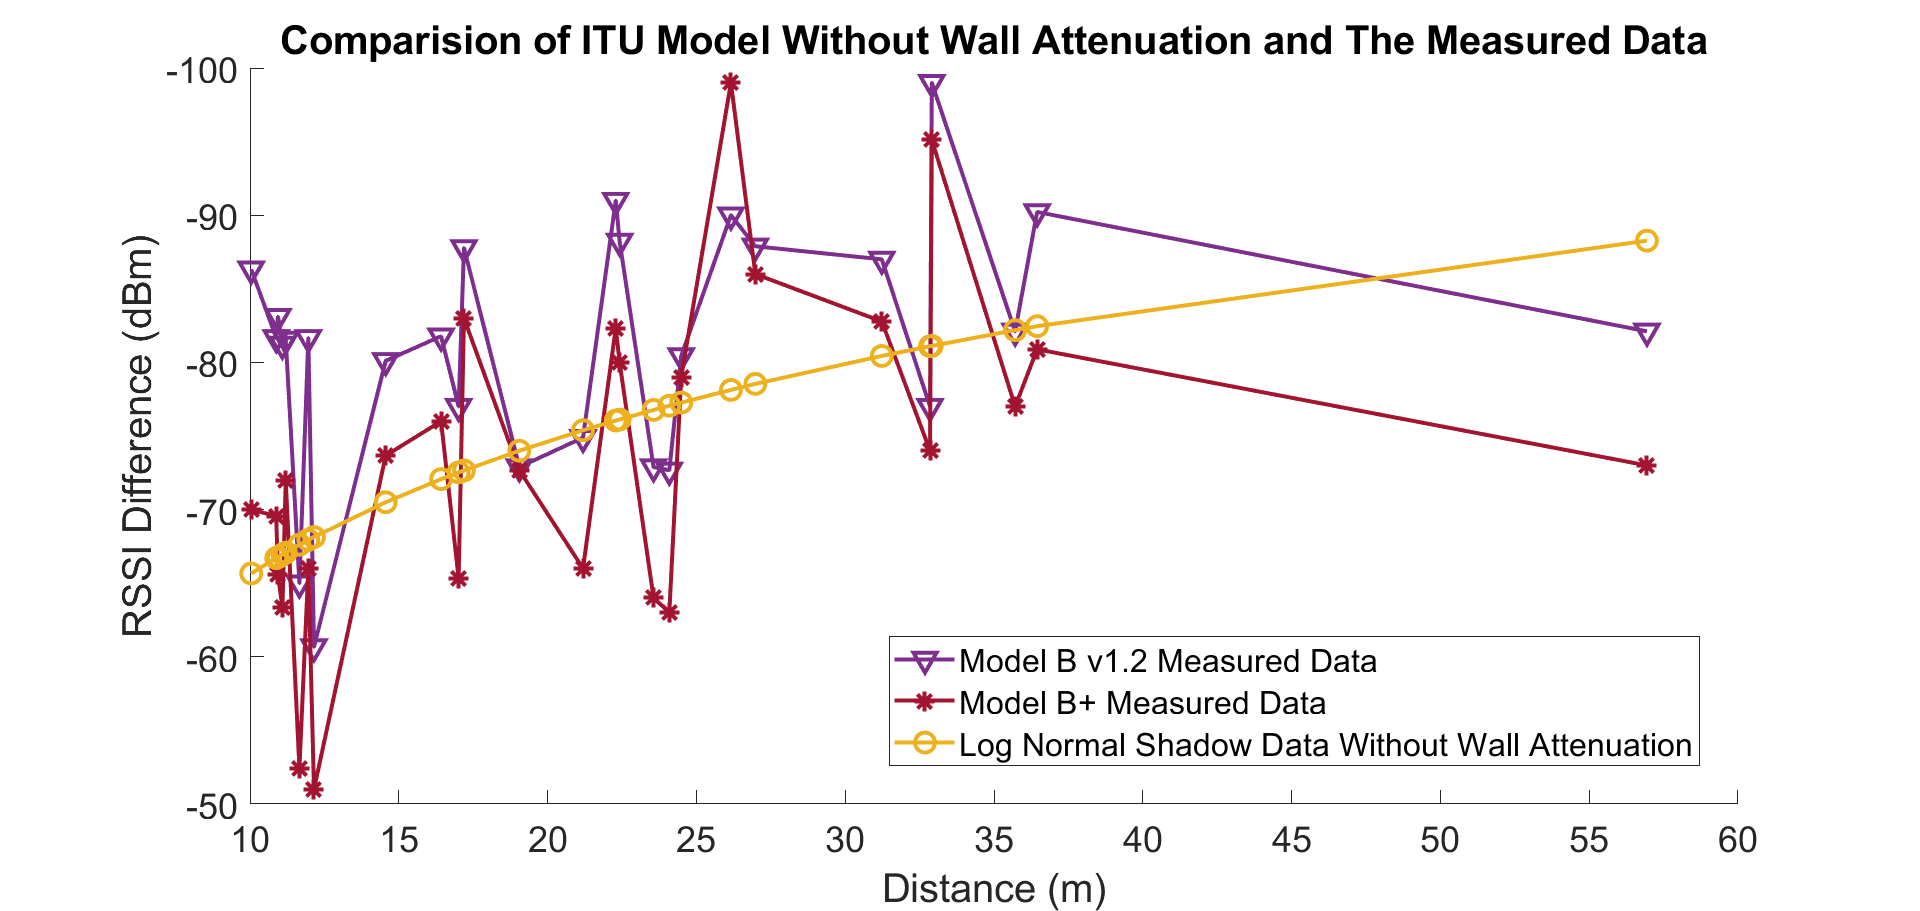
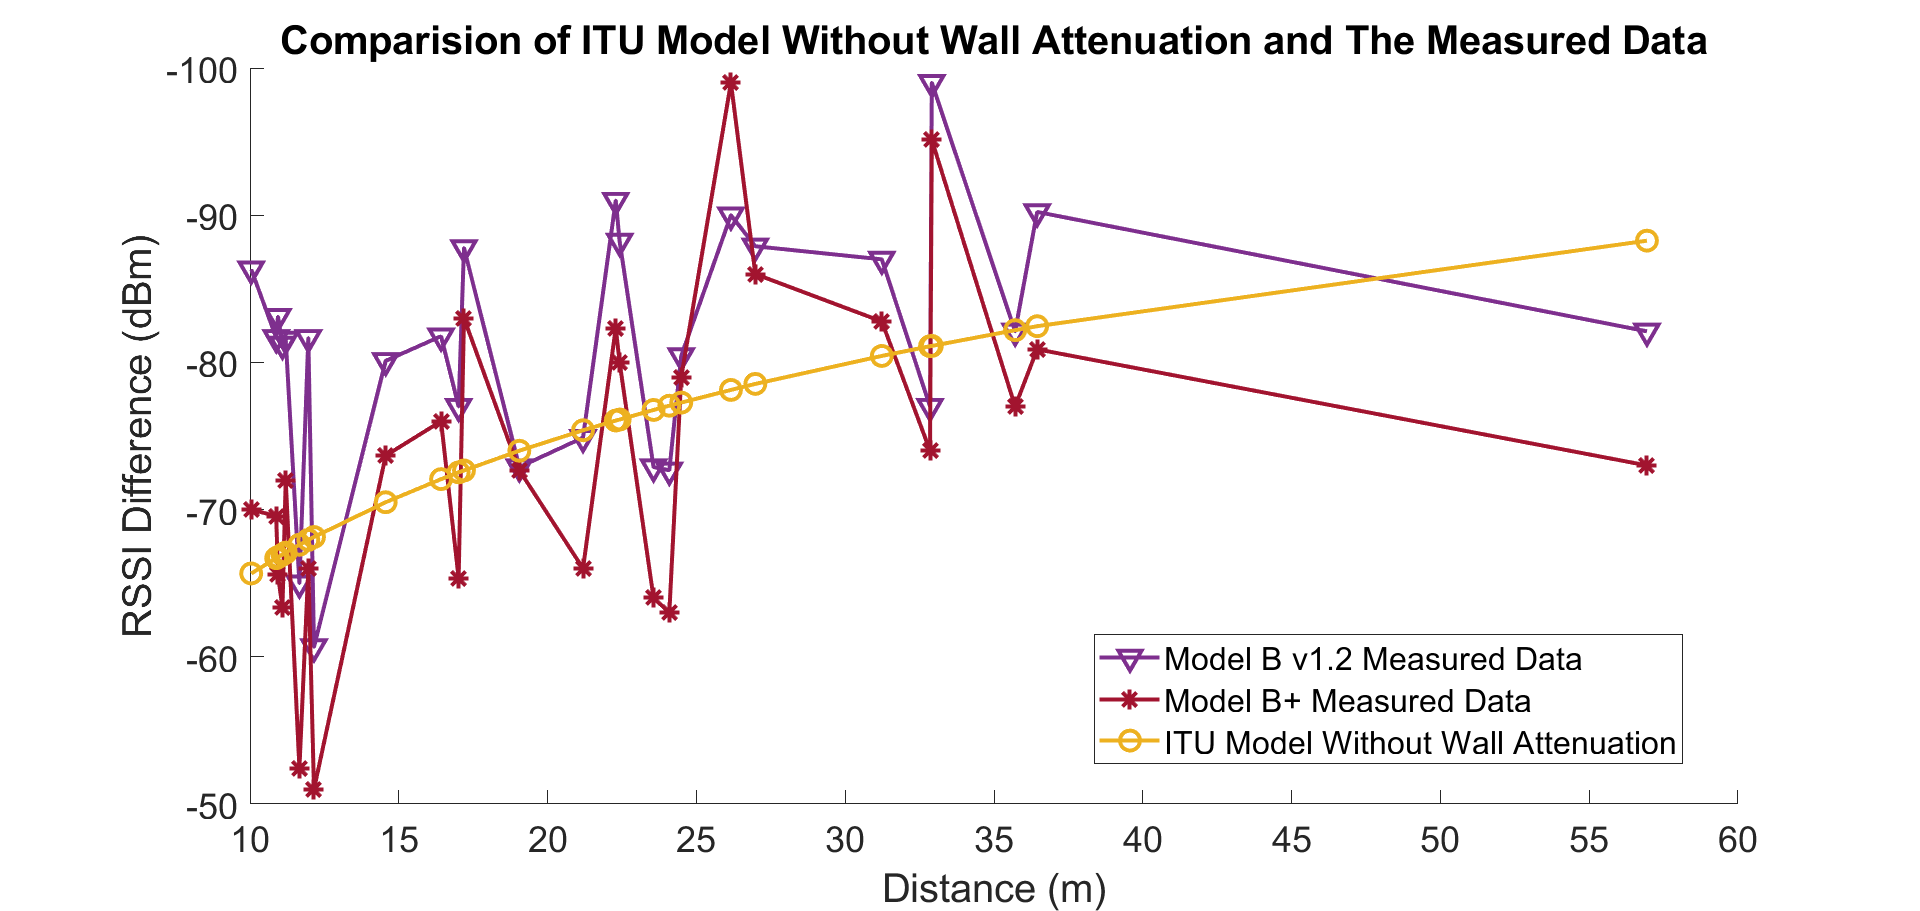
fix the legend of ITU

Changed region(s): [[0.4688, 0.7069, 0.875, 0.8299]]

diff --git a/PlotRCV.m b/PlotRCV.m
@@ -175,30 +175,8 @@ ylabel('RSSI Difference (dBm)')
 % 
 % %%%%%%%%%%%%%%%%%%%%%%%%%%%%%%%%%%%%%%%%%%%%%%%%%%%%%%
 
-%%%%%%%%%%%%%%%%%%%%%%%%%%%%%%%%%%%%%%%%%%%%%%%%%%%%%%
-%% Figure Chap4.2 B, model without wall, real data
-hold on
-
-% 
-plot(k_distance_a, k_rcv_rssi_pi_a, '-v','LineWidth',2,'MarkerSize',10, 'Color',"#7E2F8E")
-
-% 
-plot(k_distance_a, k_rcv_rssi_pi_b, '-*','LineWidth',2,'MarkerSize',10,'Color',"#A2142F")
-
-plot(k_distance_a, k_log_est_a, '-o','LineWidth',2,'MarkerSize',10,'Color',"#77AC30")
-
-
-
-%% legend will not work in other places!
-%% error: Warning "Ignoring extra legend entries"
-legend('Model B v1.2 Measured Data', 'Model B+ Measured Data', 'Log Normal Shadow Data Without Wall Attenuation','southheast' );
-title('Comparision of Log Normal Shadow Data Without Wall Attenuation and The Measured Data')
-
-%%%%%%%%%%%%%%%%%%%%%%%%%%%%%%%%%%%%%%%%%%%%%%%%%%%%%%
-
 % %%%%%%%%%%%%%%%%%%%%%%%%%%%%%%%%%%%%%%%%%%%%%%%%%%%%%%
-% %% Figure Chap4.3 B, ITU model without wall, real data
-% %% need manual adjust of legend
+% %% Figure Chap4.2 B, model without wall, real data
 % hold on
 % 
 % % 
@@ -207,35 +185,57 @@ title('Comparision of Log Normal Shadow Data Without Wall Attenuation and The Me
 % % 
 % plot(k_distance_a, k_rcv_rssi_pi_b, '-*','LineWidth',2,'MarkerSize',10,'Color',"#A2142F")
 % 
-% plot(k_distance_a, k_itu_est_a, '-o','LineWidth',2,'MarkerSize',10,'Color',"#EDB120")
+% plot(k_distance_a, k_log_est_a, '-o','LineWidth',2,'MarkerSize',10,'Color',"#77AC30")
 % 
 % 
-% set(gca, 'YDir','reverse')
-% 
-% % set(gca, 'YDir','reverse')
-% ax = gca;
-% ax.FontSize = 18;
-% % plot(distance, itu_diff, '-o')
-% % set(gca, 'YDir','reverse')
-% 
-% 
-% 
-% 
-% % display(distance)
-% % display(rcv_power)
-% % display(distance2)
-% % display(rcv_power2)
 % 
 % %% legend will not work in other places!
 % %% error: Warning "Ignoring extra legend entries"
-% legend('Model B v1.2 Measured Data', 'Model B+ Measured Data', 'Log Normal Shadow Data Without Wall Attenuation','southeast' );
-% title('Comparision of ITU Model Without Wall Attenuation and The Measured Data')
-% 
-% 
-% hold off
-% 
+% legend('Model B v1.2 Measured Data', 'Model B+ Measured Data', 'Log Normal Shadow Data Without Wall Attenuation','southheast' );
+% title('Comparision of Log Normal Shadow Data Without Wall Attenuation and The Measured Data')
 % 
 % %%%%%%%%%%%%%%%%%%%%%%%%%%%%%%%%%%%%%%%%%%%%%%%%%%%%%%
+
+%%%%%%%%%%%%%%%%%%%%%%%%%%%%%%%%%%%%%%%%%%%%%%%%%%%%%%
+%% Figure Chap4.3 B, ITU model without wall, real data
+%% need manual adjust of legend
+hold on
+
+% 
+plot(k_distance_a, k_rcv_rssi_pi_a, '-v','LineWidth',2,'MarkerSize',10, 'Color',"#7E2F8E")
+
+% 
+plot(k_distance_a, k_rcv_rssi_pi_b, '-*','LineWidth',2,'MarkerSize',10,'Color',"#A2142F")
+
+plot(k_distance_a, k_itu_est_a, '-o','LineWidth',2,'MarkerSize',10,'Color',"#EDB120")
+
+
+set(gca, 'YDir','reverse')
+
+% set(gca, 'YDir','reverse')
+ax = gca;
+ax.FontSize = 18;
+% plot(distance, itu_diff, '-o')
+% set(gca, 'YDir','reverse')
+
+
+
+
+% display(distance)
+% display(rcv_power)
+% display(distance2)
+% display(rcv_power2)
+
+%% legend will not work in other places!
+%% error: Warning "Ignoring extra legend entries"
+legend('Model B v1.2 Measured Data', 'Model B+ Measured Data', 'ITU Model Without Wall Attenuation','southeast' );
+title('Comparision of ITU Model Without Wall Attenuation and The Measured Data')
+
+
+hold off
+
+
+%%%%%%%%%%%%%%%%%%%%%%%%%%%%%%%%%%%%%%%%%%%%%%%%%%%%%%
 
 
 set(gca, 'YDir','reverse')
